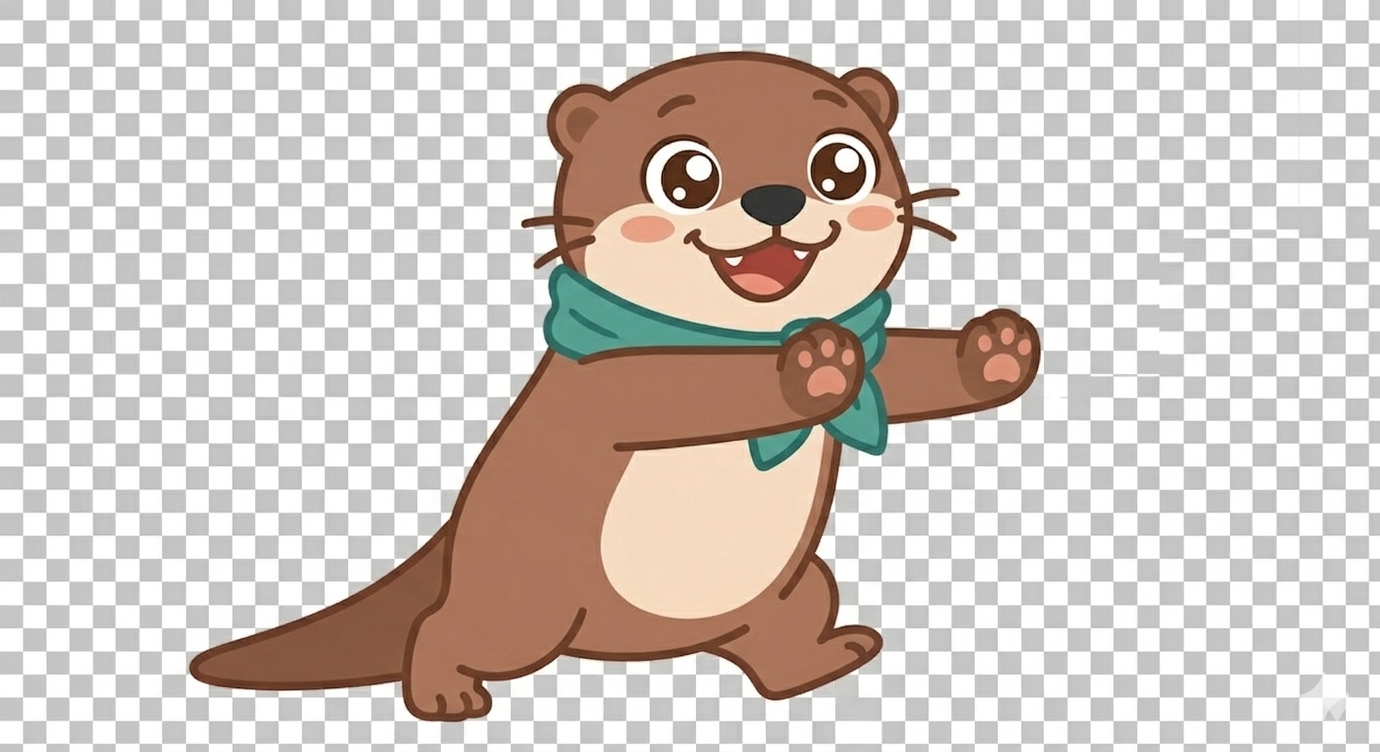
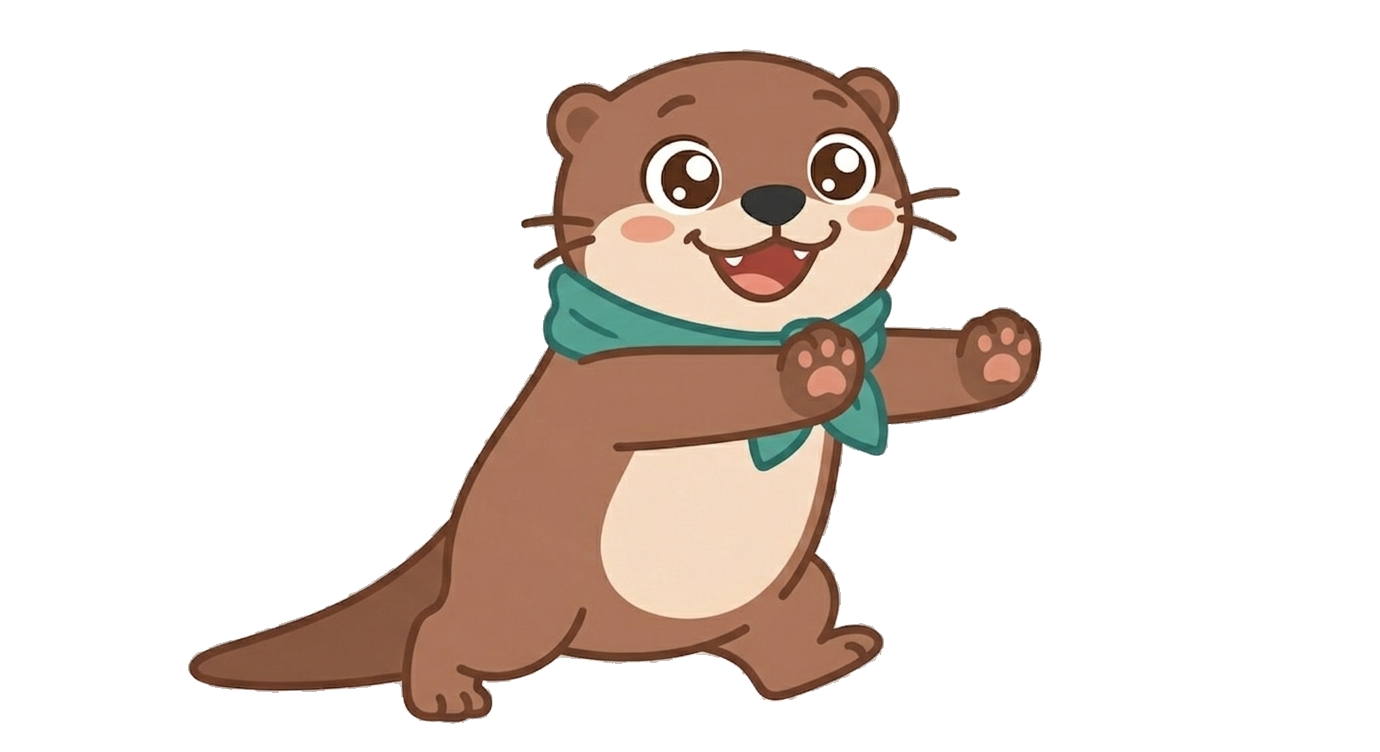
Strip checkerboard background from all 9 Ott PNGs — Pillow flood-fill alpha removal

diff --git a/scripts/strip_ott_checkerboard.py b/scripts/strip_ott_checkerboard.py
@@ -1,0 +1,104 @@
+"""Strip the baked-in transparency-preview checkerboard from the Ott PNGs.
+
+The 9 PNGs in frontend/public/ott/ were exported from an illustration tool
+with the editor's checkerboard visible as actual pixel data — alpha=255 across
+the entire image, with alternating gray (~200) and white (255) squares filling
+the area that should be transparent.
+
+Strategy:
+  1. Build a "background candidate" mask: pixels that are nearly achromatic
+     (max - min < 18) AND light (min >= 175). This catches both the gray and
+     white checker squares but rejects Ott's cream belly (245,221,196) which
+     has max-min ~49.
+  2. Flood from the four corners across the mask. Anything reachable is
+     background; everything else (Ott's body, fully enclosed by his dark
+     brown outline) stays opaque.
+  3. Set alpha=0 on the reachable pixels and save back in place.
+
+Uses PIL.ImageDraw.floodfill (C-implemented) for speed — no scipy required.
+"""
+
+from pathlib import Path
+
+import numpy as np
+from PIL import Image, ImageDraw
+
+OTT_DIR = Path(__file__).resolve().parents[1] / "frontend" / "public" / "ott"
+FILES = [
+    "ott-idle.png",
+    "ott-waving.png",
+    "ott-encouraging.png",
+    "ott-coaching.png",
+    "ott-thinking.png",
+    "ott-waiting.png",
+    "ott-excited.png",
+    "ott-celebrating.png",
+    "ott-sleeping.png",
+]
+
+# Tunables
+LIGHT_THRESHOLD = 175       # min channel must be at least this to qualify as bg
+CHROMA_THRESHOLD = 18       # max-min must be at most this (achromatic only)
+
+
+def strip(path: Path) -> dict:
+    im = Image.open(path).convert("RGBA")
+    arr = np.array(im)
+    h, w = arr.shape[:2]
+    rgb = arr[:, :, :3].astype(np.int16)
+
+    mn = rgb.min(axis=2)
+    mx = rgb.max(axis=2)
+    is_bg = (mn >= LIGHT_THRESHOLD) & ((mx - mn) <= CHROMA_THRESHOLD)
+
+    # Build a binary RGB-mode image: white where bg-candidate, black elsewhere.
+    # (PIL's L-mode floodfill is broken in some Pillow versions; RGB works.)
+    mask_rgb = np.zeros((h, w, 3), dtype=np.uint8)
+    mask_rgb[is_bg] = (255, 255, 255)
+    mask_img = Image.fromarray(mask_rgb, mode="RGB")
+
+    # Flood-fill the mask from each corner, painting reachable bg pixels red.
+    SENTINEL = (255, 0, 0)
+    for x, y in [(0, 0), (w - 1, 0), (0, h - 1), (w - 1, h - 1)]:
+        if tuple(mask_rgb[y, x]) == (255, 255, 255):
+            ImageDraw.floodfill(mask_img, (x, y), SENTINEL, thresh=0)
+
+    flooded = np.array(mask_img)
+    transparent_mask = (
+        (flooded[:, :, 0] == 255)
+        & (flooded[:, :, 1] == 0)
+        & (flooded[:, :, 2] == 0)
+    )
+
+    arr[transparent_mask, 3] = 0
+    Image.fromarray(arr, "RGBA").save(path, "PNG", optimize=True)
+
+    return {
+        "name": path.name,
+        "size": f"{w}x{h}",
+        "pixels_total": h * w,
+        "pixels_bg_candidate": int(is_bg.sum()),
+        "pixels_made_transparent": int(transparent_mask.sum()),
+    }
+
+
+def main():
+    print(f"Processing {len(FILES)} files in {OTT_DIR}")
+    print("-" * 80)
+    for name in FILES:
+        path = OTT_DIR / name
+        if not path.exists():
+            print(f"  MISSING: {name}")
+            continue
+        stats = strip(path)
+        pct = 100.0 * stats["pixels_made_transparent"] / stats["pixels_total"]
+        print(
+            f"  {stats['name']:25s} {stats['size']:>10s}  "
+            f"transparent={stats['pixels_made_transparent']:>8d} ({pct:5.1f}%)"
+        )
+    print("-" * 80)
+    print("Done.")
+
+
+if __name__ == "__main__":
+    main()
